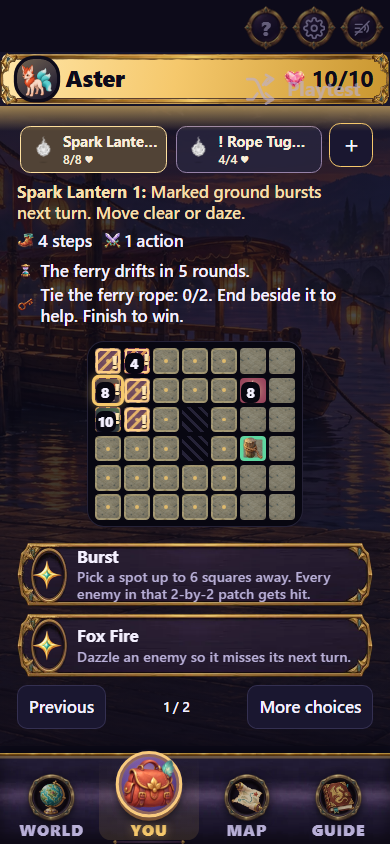
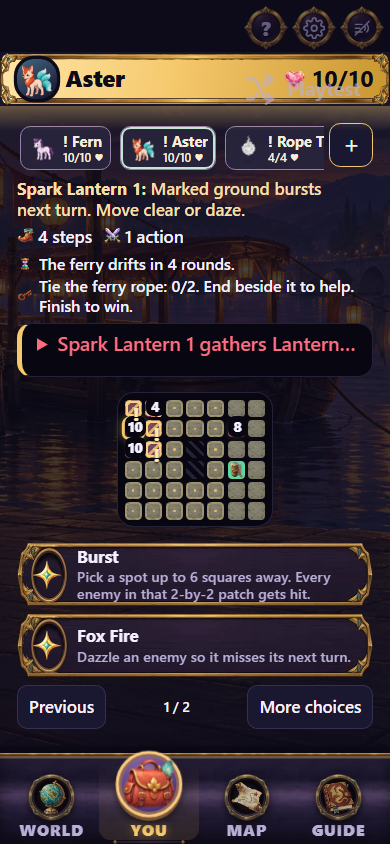
Unify combat panel framing and keep every row clear

Changed region(s): [[0.0, 0.0616, 1.0, 0.6469]]

diff --git a/e2e/combat-quay.spec.ts b/e2e/combat-quay.spec.ts
@@ -45,6 +45,54 @@ test("the quay's committed burst survives refresh, can be interrupted, and frien
     const phone = phones[owner(state)].page;
     await expect(phone.locator(".combat__cell--danger").first()).toBeVisible();
     await expect(display.page.getByLabel("Battle plan")).toContainText("Marked ground bursts next turn");
+    await display.page.emulateMedia({ reducedMotion: "reduce" });
+    for (const surface of [
+      { width: 1280, height: 720, text: "normal", contrast: "normal" },
+      { width: 1920, height: 1080, text: "normal", contrast: "normal" },
+      { width: 1280, height: 720, text: "largest", contrast: "normal" },
+      { width: 1280, height: 720, text: "normal", contrast: "high" },
+    ]) {
+      await display.page.setViewportSize(surface);
+      await display.page.evaluate(({ text, contrast }) => {
+        if (text === "normal") delete document.documentElement.dataset.text; else document.documentElement.dataset.text = text;
+        if (contrast === "normal") delete document.documentElement.dataset.contrast; else document.documentElement.dataset.contrast = contrast;
+      }, surface);
+      await display.page.screenshot({ path: info.outputPath(`panel-${surface.width}-${surface.text}-${surface.contrast}.png`) });
+      if (surface.width === 1280 && surface.text === "normal" && surface.contrast === "normal") {
+        await display.page.locator(".fight-log").screenshot({ path: info.outputPath("panel-detail.png") });
+      }
+      const layout = await display.page.locator(".fight-log").evaluate(panel => {
+        const selectors = [".turn-banner", ".rift-status__clock", ".rift-status__lines", ".rift-status .goal", ".fight-log__plan", ".fight-log__lines"];
+        const rows = selectors.map(selector => panel.querySelector<HTMLElement>(selector)!).filter(Boolean).map(el => {
+          const box = el.getBoundingClientRect();
+          return { top: box.top, bottom: box.bottom, left: box.left, right: box.right, fits: el.scrollHeight <= el.clientHeight + 1 };
+        }).filter(row => row.bottom > row.top);
+        const goal = panel.querySelector(".goal")!;
+        const box = panel.getBoundingClientRect();
+        const corner = document.querySelector(".kad-corner")!.getBoundingClientRect();
+        return { rows, left: box.left, right: box.right, top: box.top, cornerBottom: corner.bottom,
+          boardBeside: getComputedStyle(panel).getPropertyValue("--fight-log-beside").trim(), fits: panel.scrollHeight <= panel.clientHeight + 1,
+          goalTrim: getComputedStyle(goal, "::before").display,
+          frames: [".turn-banner", ".rift-status__clock", ".fight-log__plan"].map(selector => {
+            const css = getComputedStyle(panel.querySelector(selector)!);
+            return { left: css.borderLeftWidth, right: css.borderRightWidth, radius: css.borderRadius };
+          }) };
+      });
+      expect(layout.fits, JSON.stringify({ surface, layout })).toBe(true);
+      expect(layout.goalTrim).toBe("none");
+      expect(layout.top).toBeGreaterThanOrEqual(layout.cornerBottom);
+      expect(layout.boardBeside).toBe("1");
+      expect(layout.frames.every(frame => frame.left === "0px" && frame.right === "0px" && frame.radius === "0px")).toBe(true);
+      for (let i = 0; i < layout.rows.length; i++) {
+        const row = layout.rows[i];
+        expect(row.fits, JSON.stringify({ surface, row })).toBe(true);
+        expect(row.left).toBeGreaterThanOrEqual(layout.left);
+        expect(row.right).toBeLessThanOrEqual(layout.right);
+        if (i) expect(row.top).toBeGreaterThanOrEqual(layout.rows[i - 1].bottom);
+      }
+    }
+    await display.page.setViewportSize({ width: 1280, height: 720 });
+    await display.page.evaluate(() => { delete document.documentElement.dataset.text; delete document.documentElement.dataset.contrast; });
     for (const viewport of [{ width: 390, height: 844, text: "normal" }, { width: 320, height: 720, text: "normal" }, { width: 390, height: 844, text: "largest" }]) {
       await phone.setViewportSize(viewport);
       await phone.evaluate(text => { if (text === "normal") delete document.documentElement.dataset.text; else document.documentElement.dataset.text = text; }, viewport.text);
@@ -73,6 +121,7 @@ test("the quay's committed burst survives refresh, can be interrupted, and frien
     await expect.poll(() => phones[0].page.locator(".player__prompt").evaluate(el => el.scrollHeight <= el.clientHeight + 1)).toBe(true);
     await phones[0].page.screenshot({ path: info.outputPath("quay-interrupt-largest.png") });
     await phones[0].page.getByRole("button", { name: /^Fox Fire/ }).click();
+    await phones[0].page.screenshot({ path: info.outputPath("quay-target-largest.png") });
     await expect.poll(() => phones[0].page.locator(".player__prompt").evaluate(el => el.scrollHeight <= el.clientHeight + 1)).toBe(true);
     await phones[0].page.locator(".combat__targets button").filter({ hasText: "Spark Lantern 1" }).click();
     await phones[0].page.evaluate(() => { delete document.documentElement.dataset.text; });

diff --git a/packages/client/src/screens/FightLog.css b/packages/client/src/screens/FightLog.css
@@ -180,7 +180,7 @@
  * phone's own line says "vs Guard" every time). The phone's shell already
  * keeps the corner row off the pane, so it sits at the top.
  */
-@container world (max-width: 40em) {
+@container world (max-width: 640px) {
   .fight-log {
     --fight-log-beside: 0;
     inset-block-start: 0.5em;
@@ -257,13 +257,98 @@
 :root[data-motion="reduced"] .fight-log__chip {
   animation: none;
 }
-.fight-log__plan { padding: .65em .8em; border: 1px solid #d7bb7a; border-radius: .7em; background: #252139ed; color: #fff0ca; font-size: .85em; line-height: 1.35; } .fight-log__plan p { margin: .4em 0 0; }
-
-/* One measured side column keeps mission rules off the battlefield. */
-.fight-log .rift-status { position: static; max-inline-size: none; inline-size: 100%; font-size: .7em; }
-.fight-log .rift-status__lines li { background: transparent; padding: .15em 0; }
-
-/* Turn ownership belongs beside the board, never over a threatened tile. */
+/* One frame, with aligned rows for ownership, conditions, threat and result. */
 .fight-log > :not(.fight-log__lines) { flex-shrink: 0; }
-.fight-log .turn-banner { position: static; inset: auto; transform: none; animation: none; opacity: 1; visibility: visible; font-size: 1em; padding: .25em .45em; max-inline-size: 100%; }
+.fight-log__plan {
+  padding: .65em 0 0;
+  border-block-start: 1px solid #d7bb7a55;
+  color: #fff0ca;
+  font-size: .9em;
+  line-height: 1.4;
+}
+.fight-log__plan p { margin: 0; }
+.fight-log__plan > strong + p { margin-block-start: .4em; }
+.fight-log__lines {
+  border-block-start: 1px solid #d7bb7a55;
+  padding-block-start: .65em;
+  font-size: .9em;
+  line-height: 1.4;
+}
+:root .fight-log .rift-status {
+  position: static;
+  max-inline-size: none;
+  inline-size: 100%;
+  align-items: stretch;
+  gap: .6em;
+  font-size: .9em;
+}
+.fight-log .rift-status > * { flex: none; }
+/* The goal's painted paper has a minimum trim larger than its text row. Remove
+   that separate frame here so it cannot paint over the clock beside it. */
+:root .fight-log .rift-status .goal {
+  --chrome: none;
+  position: static;
+  inset: auto;
+  inline-size: 100%;
+  max-inline-size: none;
+  margin: 0;
+  padding: 0;
+  border: 0;
+  border-radius: 0;
+  background: none;
+  box-shadow: none;
+  color: var(--color-text-muted, #b7b0d8);
+  font-size: .8em;
+}
+:root .fight-log .goal::before, :root .fight-log .goal::after { display: none; }
+:root .fight-log .goal :is(.goal__text, .goal__sentence, .goal__label) { color: inherit; }
+:root .fight-log .goal__text { font-size: inherit; line-height: 1.4; align-items: center; flex-wrap: wrap; }
+.fight-log .goal__sentence { flex: 1 1 12em; min-inline-size: 0; white-space: normal; }
+.fight-log .goal__pips { flex: none; margin-inline-start: 0; }
+.fight-log .rift-status__clock {
+  padding: 0;
+  margin: 0;
+  border: 0;
+  border-radius: 0;
+  background: none;
+  box-shadow: none;
+  animation: none;
+  font-size: inherit;
+  line-height: 1.4;
+  gap: .45em;
+  align-items: flex-start;
+}
+.fight-log .rift-status__figure { font-size: inherit; line-height: inherit; }
+.fight-log .rift-status__clock--calm .rift-status__figure b { display: none; }
+.fight-log .rift-status__lines { gap: .5em; }
+.fight-log .rift-status__lines li, .fight-log .rift-status__caption li {
+  padding: 0;
+  border: 0;
+  border-radius: 0;
+  background: none;
+  font-size: inherit;
+  line-height: 1.4;
+  align-items: flex-start;
+}
+.fight-log .turn-banner {
+  position: static;
+  inset: auto;
+  transform: none;
+  animation: none;
+  opacity: 1;
+  visibility: visible;
+  border: 0;
+  border-block-end: 1px solid #d7bb7a55;
+  border-radius: 0;
+  background: none;
+  box-shadow: none;
+  padding: 0 0 .5em;
+  font-size: 1em;
+  max-inline-size: 100%;
+}
 .fight-log:has(.rift-status) .fight-log__guard { display: none; }
+
+/* Large text on a TV remains a side column, with room for full sentences. */
+@container world (min-width: 641px) and (max-height: 26em) {
+  .fight-log { inline-size: 40%; font-size: .9em; }
+}

diff --git a/packages/client/src/screens/CombatPanel.css b/packages/client/src/screens/CombatPanel.css
@@ -905,8 +905,11 @@ html[data-text] .combat .combat__actions .choice { font-size: .85em; }
 .combat[data-windup] .combat__board { min-block-size: clamp(80px, 24cqh, 180px); }
 
 /* Keep threat text and complete action cards readable at the largest text setting. */
-.combat[data-windup] .combat__env { font-size: max(12px, .75em); line-height: 1.25; }
-.combat[data-windup] .combat__fighter-strip button { font-size: max(12px, .65em); }
+.combat[data-windup] .combat__env { font-size: max(12px, .7em); line-height: 1.25; }
+.combat[data-windup] .combat__fighter-strip button { font-size: max(12px, .65em); line-height: 1.15; padding-block: .15em; }
+.combat[data-windup] .combat__budget { line-height: 1.2; }
 .combat[data-windup] .paged-options__nav { font-size: .75em; }
 .combat[data-windup] .combat__result summary { min-block-size: 44px; padding-block: .15em; }
 .combat[data-windup] .combat__targets .choice { font-size: .8em; min-block-size: 44px; padding-block: .2em; }
+.combat[data-windup] .combat__ask { font-size: .8em; line-height: 1.25; }
+.combat[data-windup] .combat__ask-row > .kad-button { min-block-size: 44px; font-size: .75em; padding-block: .25em; }

diff --git a/packages/client/src/screens/FightLog.tsx b/packages/client/src/screens/FightLog.tsx
@@ -188,10 +188,10 @@ export function FightLog(): ReactElement | null {
           ))}
         </ul>
       ) : null}
-      <section className="fight-log__plan" aria-label="Battle plan">
-        <strong>{combatMission(encounter)}</strong>
+      {(!encounter.environment || forecastId) && <section className="fight-log__plan" aria-label="Battle plan">
+        {!encounter.environment && <strong>{combatMission(encounter)}</strong>}
         {forecastId && <p><b>{combatantById(encounter, forecastId)?.name}:</b> {enemyIntentLine(encounter, forecastId)}</p>}
-      </section>
+      </section>}
       <ol className="fight-log__lines" aria-live="polite">
         {lines.length === 0 ? <li className="fight-log__line fight-log__line--quiet">The fight is on!</li> : null}
         {lines.map((line) => (

diff --git a/packages/client/src/screens/RiftStatus.tsx b/packages/client/src/screens/RiftStatus.tsx
@@ -99,8 +99,6 @@ export function RiftStatus(): ReactElement | null {
 
   return (
     <aside className="rift-status" aria-label="The rift">
-      {/* The chapter's goal (#356) heads the corner it shares with the rift. */}
-      <ChapterGoalCard place="world" folded />
       {clock ? (
         <p className={`rift-status__clock rift-status__clock--${clock.mood}`} role="status">
           <span className="rift-status__figure" aria-hidden="true">
@@ -136,6 +134,7 @@ export function RiftStatus(): ReactElement | null {
           </li>
         ))}
       </ul>
+      <ChapterGoalCard place="world" folded />
       {caption ? (
         <ul className="rift-status__caption" key={caption.seq} aria-live="polite">
           {caption.lines.map((line, i) => (

diff --git a/docs/briefs/combat-quay-benchmark.md b/docs/briefs/combat-quay-benchmark.md
@@ -23,11 +23,15 @@ The small encounter uses the existing Exchange tile painting, lantern-lit quay b
 
 Turn ownership now lives in the measured fight column so it cannot cover the charging enemy. Environmental fights show the latest result alongside mission rules. Mission phones show two action cards per page, with class/species moves before basic actions; the normal encounter defaults remain three cards. Threats, health, and complete action cards take priority over between-fight XP and repeated generic instructions.
 
+The shared fight column uses one outer frame and consistent text rows separated by rules. The chapter goal has no painted parchment inside this column, so its trim cannot overlap the clock. Turn ownership, countdown, threat and result share the same panel treatment. Its narrow-screen breakpoint uses physical container width; large TV text still reserves room beside the board and clears the corner controls.
+
 ## Verification and remaining judgment
 
 Rules tests cover one, two, and four heroes; movement clear of a saved blast; staying in danger; protection and wards; dazing; defeated casters; and repeated resolution. Authored-content tests cover solo support heroes, cooperative objective completion without defeating enemies, and the timeout ending. The existing seeded ordinary-fight digest remains unchanged.
 
 The live browser test uses two phones and a TV, checks 320px/390px and largest text without prompt scrolling, reloads a committed warning, interrupts through the phone's Fox Fire controls, and has both heroes finish the rope objective. The general combat browser review remains enabled.
+
+The right-hand panel is checked at 720p, 1080p, largest text and high contrast: no row overlaps, clipped results, nested message frames or overlap with the corner controls. The test also verifies that the board still reserves the column's width and that the chapter goal's parchment pseudo-element stays off.
 
 Family observation is still required: do children anticipate the burst, deliberately make room, notice a saved friend, choose different contributions, and want another turn? Automated completion is evidence that the loop works, not that its difficulty and pacing are right.
 
@@ -36,5 +40,7 @@ Family observation is still required: do children anticipate the burst, delibera
 - [Phone](../reviews/combat-quay/phone.png)
 - [Largest text](../reviews/combat-quay/largest-text.png)
 - [Shared TV](../reviews/combat-quay/tv.png)
+- [Right-hand panel detail](../reviews/combat-quay/panel.png)
+- [TV at largest text](../reviews/combat-quay/tv-largest-text.png)
 
 Type checking, content validation/proofs, the production build and payload gate pass. The payload remains within the existing budgets: 329KB first paint and 1483KB total. The full regression run passed 9,633 tests and exposed three findings: the redundant real-chapter hint, a downstream solo narration line, and the expected content-file digest changes. The hint was removed, the narration corrected, and only the two deliberately edited chapter-file hashes were re-pinned. Affected suites were rerun; gameplay/legacy-save digests were retained.
